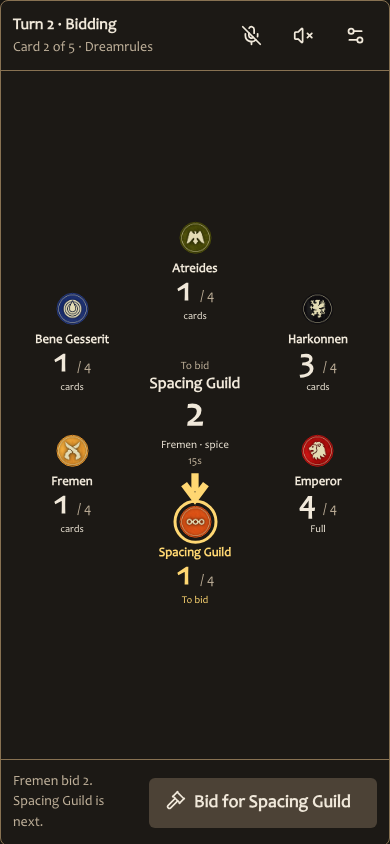
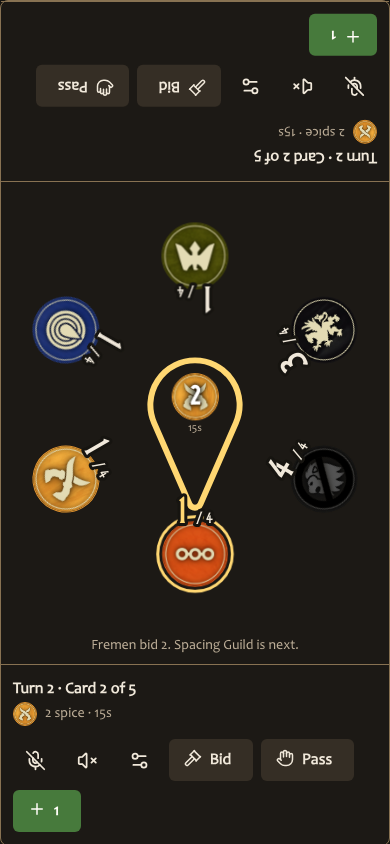
Record bidding UI approval and independent review fixes

diff --git a/src/app/routes/_tool/tools/bidding-prototype/route.tsx b/src/app/routes/_tool/tools/bidding-prototype/route.tsx
@@ -15,7 +15,6 @@ import { IconAction } from '@ui/control/IconAction';
 import { LabeledAction } from '@ui/control/LabeledAction';
 import { SortableItem } from '@ui/control/SortableItem';
 import { SortableReorderHandle } from '@ui/control/SortableReorderHandle';
-import { Stepper } from '@ui/control/Stepper';
 import { PageLayout } from '@ui/layout/PageLayout';
 import { Surface } from '@ui/surface/Surface';
 import { SheetPopover, TouchSurface } from '@ui/surface/TouchSheet';
@@ -1415,7 +1414,13 @@ function BiddingFlowReview() {
         size="auto"
         withCloseButton={false}
         title={panelLabel}
-        classNames={{ content: styles.farSheet, header: styles.farSheetHeader }}
+        padding="md"
+        classNames={{
+          inner: styles.farSheetInner,
+          content: styles.farSheet,
+          header: styles.farSheetHeader,
+          body: styles.farDrawerBody,
+        }}
       >
         <TouchSurface>
           <div className={styles.farSheetBody}>
@@ -1435,51 +1440,11 @@ function BiddingFlowReview() {
     </>
   );
   const baseline = (
-    <>
-      <div className={styles.baselineTablet}>
-        <Group justify="space-between" className={styles.deviceHeader}>
-          <Text fw={700}>Turn 2 · Bidding</Text>
-          <Group gap="md">
-            <RotateCcw size={19} aria-label="Take back" />
-            <VolumeX size={19} />
-            <Text size="xs">Direct over the Wi-Fi</Text>
-          </Group>
-        </Group>
-        {circle(true)}
-        <Text ta="center" size="xl" fw={700}>
-          Spacing Guild to bid
-        </Text>
-        <Text ta="center">Fremen has 2 · 15 s</Text>
-        <Text ta="center" size="sm" c="dimmed">
-          Harkonnen pays 3 spice and takes the card. Harkonnen also draws a free card.
-        </Text>
-      </div>
-      <div className={styles.phone}>
-        <Group className={styles.deviceHeader} gap="sm">
-          <FactionTokenFace token={factions[3]} size={36} aria-hidden />
-          <Stack gap="xs">
-            <Text fw={700}>Spacing Guild</Text>
-            <Text size="xs">Linked to the tablet</Text>
-          </Stack>
-        </Group>
-        <Stack gap="md">
-          <Text size="xl" fw={700}>
-            Your bid · 15
-          </Text>
-          <Text c="dimmed">Beat 2</Text>
-          <Stepper label="Original remote bid" value={3} min={3} onChange={() => {}} />
-          <Group grow>
-            <LabeledAction icon={<ArrowRight size={15} />} intent="positive" emphasis="strong">
-              Bid 3
-            </LabeledAction>
-            <LabeledAction icon={<ArrowRight size={15} />}>Pass</LabeledAction>
-          </Group>
-          <Text size="xs" c="dimmed">
-            Direct over the Wi-Fi
-          </Text>
-        </Stack>
-      </div>
-    </>
+    <img
+      className={styles.baselineTablet}
+      src={new URL('./review/before.png', import.meta.url).href}
+      alt="Captured reconstruction of prototype H before the agreed changes: tablet bidding circle and separate phone remote."
+    />
   );
   return (
     <PageLayout height="fullscreen">
@@ -1499,7 +1464,7 @@ function BiddingFlowReview() {
                 Throwaway flow review · simulated devices and audio
               </Text>
               <Text size="xl" fw={700}>
-                {before ? 'Recorded prototype H' : 'Agreed changes'}
+                {before ? 'Captured reconstruction of prototype H' : 'Agreed changes'}
               </Text>
             </div>
             <Group gap="xs">
@@ -1549,7 +1514,7 @@ function BiddingFlowReview() {
           )}
           <Text size="sm" c="dimmed" className={styles.reviewNote}>
             {before
-              ? 'Baseline view reproduces the recorded H controls and fixture data. The hand controls, manual card starts and recovery screens are agreed additions.'
+              ? 'This saved capture preserves the reconstruction of prototype H. The agreed changes are interactive.'
               : descriptions[step]}
           </Text>
           <div className={styles.devices} data-view={view} data-before={before || undefined}>

diff --git a/src/app/routes/_tool/tools/bidding-prototype/route.module.css b/src/app/routes/_tool/tools/bidding-prototype/route.module.css
@@ -278,35 +278,9 @@
   min-height: 44rem;
 }
 .baselineTablet {
-  min-height: 41rem;
-  border: 2px solid var(--panel-border);
-  border-radius: var(--radius-md);
-  padding-bottom: var(--space-lg);
-}
-.baselineTablet .arena {
-  max-width: 29rem;
-  margin: auto;
-  aspect-ratio: 1;
-}
-.baselineTablet .cardMiddle {
-  width: 28%;
-  height: 28%;
-  border: 4px solid var(--color-brand);
-  border-radius: 50%;
-}
-.baselineTablet .seat {
-  gap: var(--space-xs);
-}
-.devices[data-before] > .phone {
-  border: 2px solid var(--panel-border);
-  border-radius: var(--radius-md);
-  padding: var(--space-md);
-}
-.devices[data-before][data-view="tablet"] > .phone {
-  display: none;
-}
-.devices[data-before][data-view="phone"] > .baselineTablet {
-  display: none;
+  grid-column: 1 / -1;
+  width: 100%;
+  height: auto;
 }
 .simulator {
   max-width: 94rem;
@@ -468,15 +442,26 @@
   text-align: center;
   padding: var(--space-xs) var(--space-md);
 }
-.farSheet {
+.farSheetInner {
+  left: 0;
+  right: 0;
+  justify-content: center;
+  align-items: flex-start;
+}
+.farSheet.farSheet {
   height: auto;
   max-height: 85dvh;
-  width: 30rem;
-  max-width: 100%;
-  margin: auto;
+  max-width: 480px;
+  border-bottom-left-radius: var(--mantine-radius-lg);
+  border-bottom-right-radius: var(--mantine-radius-lg);
+  background: var(--ui-raised);
+  color: var(--ui-text);
 }
 .farSheetHeader {
   display: none;
+}
+.farDrawerBody {
+  padding-block: var(--space-md);
 }
 .farSheetBody {
   transform: rotate(180deg);

diff --git a/src/app/routes/_tool/tools/bidding-prototype/README.md b/src/app/routes/_tool/tools/bidding-prototype/README.md
@@ -20,9 +20,9 @@ The source contracts are [auction and hand controls](https://github.com/ndelange
 
 The revised layout follows the user's direction to reuse the existing tools, optimize the remote for a phone, and give the tablet's space to hand counts and the bidder.
 
-The tablet shows the fixed seating circle, large counts, current bidder, current high bid and timer. Tap a faction to adjust its hand. The bottom action opens tablet bidding controls. Setup keeps the seating controls beside the circle where there is room.
+The tablet shows large faction tokens in a fixed circle. Hand counts use the Dune typeface, face the same direction as their tokens and sit between each token and the pointer. A background-colored outline keeps the counts legible. The pointer aims at the token centre; its centre shows the highest bidding faction and amount, with an optional timer. Full darkens the token and adds the black prohibition mark used by Dune Play. Faction names are optional and off by default. Identical top and bottom controls face opposite sides of the table, including their sheets. Bid, Pass and the green +1 are separate controls. Setup keeps the seating controls beside the circle where there is room.
 
-The phone keeps its bid amount, Pass and Bid at the bottom. Hand count, Full and Always pass remain on the main screen. Hand limit opens from its small settings action. Reset and Change faction are in the remote settings menu.
+The phone keeps its bid amount, Pass, Bid, green +1 and hand controls within thumb reach at the bottom. Choosing the next starter uses faction tokens. Hand count, Full and Always pass remain on the main screen. Hand limit opens from its small settings action. Reset and Change faction are in the remote settings menu.
 
 These arrangements use existing tool patterns:
 
@@ -33,7 +33,7 @@ These arrangements use existing tool patterns:
 
 The route uses the existing Mantine theme and published Storybook fixture artwork. The isolated entry keeps this preview out of the generated application route tree. The screen is available only in development mode.
 
-The visual flow remains awaiting the user's review. Agent checks establish that the prototype runs and follows the recorded decisions; they do not establish human agreement or device capability.
+The user approved this layout on 2026-11-10 and requested a production playtest. The separate working implementation must provide the real timer, connections, voice and recovery. This branch remains the approved visual reference.
 
 ## Captured review
 
@@ -48,6 +48,24 @@ The visual flow remains awaiting the user's review. Agent checks establish that 
 - [Phone recovery](review/recovery.png)
 - [Phone used as the central device](review/phone-central.png)
 
-The revised layout passed 29 browser interaction checks. They cover hand-count and limit recalculation, the Full override, persistent pass, separate bid drafts, action feedback, wins and corrections, Reset, starter removal, keyboard seat reordering, local Resume, phone recovery and phase completion. Bid controls fit at 320 × 568, their main touch targets are at least 44 pixels high, and the six-faction tablet view fits at 1024 × 768. The eight-faction central view was also inspected at phone width. No browser errors were observed.
+An earlier revision passed 29 browser interaction checks. Those results do not cover every later layout change. They cover hand-count and limit recalculation, the Full override, persistent pass, separate bid drafts, action feedback, wins and corrections, Reset, starter removal, keyboard seat reordering, local Resume, phone recovery and phase completion. Bid controls fit at 320 × 568, their main touch targets are at least 44 pixels high, and the six-faction tablet view fits at 1024 × 768. The eight-faction central view was also inspected at phone width. No browser errors were observed.
 
 Type checking, targeted lint, app layout, breakpoint, CSS ownership, CSS variable and prose checks passed. GPT-6.1 Sol and GPT-6 Astra separately reviewed the source and architecture against the agreed contracts. Their corrections are incorporated. These checks do not validate physical devices, audio capture or networking.
+
+
+## Independent review, 2026-11-10
+
+Four agents reviewed the approved prototype using different models:
+
+| Concern | Model | Result |
+| --- | --- | --- |
+| UI consistency | GPT-6.1 Sol | Phone actions fit at 320 by 568. Corrected the far-side sheet to match the near-side width and attach to the top. |
+| Architecture | GPT-6 Astra | Requires a real central session, validated commands, protected central reconnection, complete recovery and browser-compatible voice packaging. |
+| Code quality | GPT-6.1 Terra | Production must capture timer opportunities, validate all commands and transitions, freeze the chosen phase count and settle when no eligible faction remains. |
+| Test coverage | GPT-6 Sol | Visual checks do not cover live behavior. Add auction, command, storage and transport seam tests plus a real central-and-remote browser flow. |
+
+All four agree that removing the development guard would not produce a working playtest. The current state, QR, audio, timer and recovery are simulations. The working tool must implement the canonical issue contracts and receive another review against its actual code.
+
+The Before view now uses the saved capture. Shared styling had changed the live reconstruction, so it can no longer serve as historical evidence. The approved view remains interactive.
+
+Voice packaging must work under the release CSP without dynamic JavaScript evaluation. Physical-device and room-voice tests have not been run. They are part of the requested playtest, and their results must be recorded separately from automated checks.
